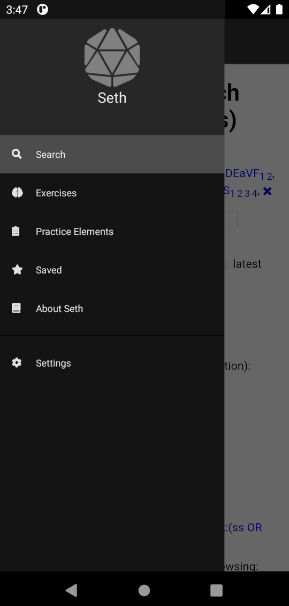
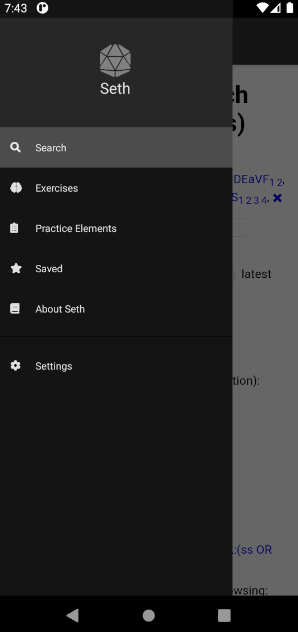
added test data for saved section styled saved section added cardview with material specs

diff --git a/src/app/saved/saved.component.html b/src/app/saved/saved.component.html
@@ -7,12 +7,39 @@
 </ActionBar>
 
 <GridLayout class="page__content">
-    <RadListView [items]="saved">
-        <ng-template let-item="item">
-            <StackLayout class="page__content-quotes">
-                <Label class="quote-text h3" [text]="item.quote"></Label>
-                <Label class="quote-book h4" [text]="item.book"></Label>
-            </StackLayout>
-        </ng-template>
+    <RadListView #savedList [items]="saved">
+        <ListViewLinearLayout tkListViewLayout
+                              scrollDirection="Vertical"
+                              itemInsertAnimation="Default"
+                              itemDeleteAnimation="Default">
+            <ng-template let-item="item">
+                <CardView class="page__content-quotes" [androidElevation]="cardElevation">
+                    <StackLayout>
+                        <Label *ngIf="!item.edit" class="quote-text h3" [text]="item.quote"></Label>
+                        <TextView *ngIf="item.edit" class="quote-text-edit h3" [(ngModel)]="newQuoteText"></TextView>
+
+                        <GridLayout columns="auto, *">
+                            <Label class="quote-book h4" col="0" [text]="item.book"></Label>
+
+                            <Button *ngIf="!item.edit" class="quote-edit text-center fas" col="1"
+                                    text="&#xf044;" [androidElevation]="buttonElevation"
+                                    (tap)="onEditQuote(item.quote); item.edit = !item.edit"></Button>
+
+                            <GridLayout col="1" columns="auto, auto" horizontalAlignment="right">
+                                <Button *ngIf="item.edit" class="quote-delete text-center fas" col="0"
+                                        text="&#xf2ed;" [androidElevation]="buttonElevation"
+                                        (tap)="onDeleteQuote($event); item.edit = !item.edit"></Button>
+
+                                <Button *ngIf="item.edit" class="quote-save text-center fas" col="1"
+                                        text="&#xf00c;" [androidElevation]="buttonElevation"
+                                        (tap)="onSaveQuote($event, newQuoteText); item.edit = !item.edit"></Button>
+
+                            </GridLayout>
+                        </GridLayout>
+
+                    </StackLayout>
+                </CardView>
+            </ng-template>
+        </ListViewLinearLayout>
     </RadListView>
 </GridLayout>

diff --git a/src/app/saved/saved.component.ts b/src/app/saved/saved.component.ts
@@ -1,15 +1,20 @@
-import { Component, OnInit } from '@angular/core';
+import { Component, ElementRef, OnInit, ViewChild } from '@angular/core';
 import { ObservableArray } from 'tns-core-modules/data/observable-array';
 import { DatabaseSaved } from '~/app/shared/databases/database-saved';
 import { Saved } from '~/app/saved/interfaces/saved.interface';
 import { RadSideDrawer } from 'nativescript-ui-sidedrawer';
 import * as app from 'tns-core-modules/application';
+import { Page } from 'tns-core-modules/ui/page';
 
 @Component({
     selector: 'Saved',
     templateUrl: './saved.component.html'
 })
 export class SavedComponent implements OnInit {
+    cardElevation: number;
+    buttonElevation: number;
+    newQuoteText: string;
+    @ViewChild('savedList', {static: false}) savedList: ElementRef;
 
     get saved(): ObservableArray<Saved> {
         return this._saved;
@@ -18,11 +23,32 @@ export class SavedComponent implements OnInit {
     private _saved: ObservableArray<Saved>;
 
     constructor(
+        private _page: Page,
         private _savedQuotes: DatabaseSaved
     ) {
     }
 
     ngOnInit(): void {
+        this.cardElevation = 2;
+        this.buttonElevation = 6;
+        this._savedQuotes.fetchSavedQuotes().then((results) => {
+            this._saved = results;
+        });
+    }
+
+    onEditQuote(oldQuoteText): void {
+        this.newQuoteText = oldQuoteText;
+    }
+
+    onDeleteQuote(args): void {
+        const id = args.object.bindingContext.id;
+        this._savedQuotes.delete({id});
+        this.saved.splice(this.saved.indexOf(args.object.bindingContext), 1);
+    }
+
+    onSaveQuote(args, newQuote): void {
+        const id = args.object.bindingContext.id;
+        this._savedQuotes.update({quote: newQuote, id});
         this._savedQuotes.fetchSavedQuotes().then((results) => {
             this._saved = results;
         });

diff --git a/src/_app-common.scss b/src/_app-common.scss
@@ -41,13 +41,58 @@
   }
 
   &-quotes {
+    radius: 10;
+    margin: 10;
+    background-color: $overlay-02dp;
+
     .quote {
       &-text {
+        white-space: normal;
+        color: rgba(255, 255, 255, .87);
+      }
+
+      &-text-edit {
+        margin: 6;
+        padding: 0;
+        white-space: normal;
         color: rgba(255, 255, 255, .87);
       }
 
       &-book {
         color: rgba(255, 255, 255, .6);
+      }
+
+      &-edit {
+        width: 30;
+        height: 30;
+        font-size: 12;
+        font-weight: 300;
+        border-radius: 50%;
+        horizontal-align: right;
+        color: rgba(255, 255, 255, .6);
+        background-color: $overlay-06dp;
+      }
+
+      &-delete {
+        width: 30;
+        height: 30;
+        font-size: 12;
+        font-weight: 300;
+        border-radius: 50%;
+        horizontal-align: right;
+        color: rgba(255, 93, 93, 0.6);
+        background-color: $overlay-06dp;
+      }
+
+      &-save {
+        width: 30;
+        height: 30;
+        font-size: 12;
+        font-weight: 300;
+        border-radius: 50%;
+        horizontal-align: right;
+        color: rgba(107, 255, 93, 0.6);
+        background-color: $overlay-06dp;
       }
     }
   }
@@ -102,10 +147,11 @@
   color: rgba(255, 255, 255, .87);
 }
 
-.nt-drawer__header-image {
+.nt-drawer__header-icon {
+  margin-top: 20;
   color: gray;
-  height: 40em;
-  width: 40em;
+  height: 40;
+  width: 40;
 }
 
 .nt-drawer__list-item.-selected {

diff --git a/src/app/app.component.ts b/src/app/app.component.ts
@@ -1,4 +1,4 @@
-import { Component, OnInit } from '@angular/core';
+import { AfterViewInit, Component, OnInit } from '@angular/core';
 import { NavigationEnd, Router } from '@angular/router';
 import { DrawerTransitionBase, RadSideDrawer, SlideInOnTopTransition } from 'nativescript-ui-sidedrawer';
 import { DatabaseExercisesPractice } from '~/app/shared/databases/database-exercises-practice';
@@ -12,7 +12,7 @@ import { filter } from 'rxjs/operators';
     selector: 'ns-app',
     templateUrl: 'app.component.html'
 })
-export class AppComponent implements OnInit {
+export class AppComponent implements OnInit, AfterViewInit {
     private _activatedUrl: string;
     private _sideDrawerTransition: DrawerTransitionBase;
 
@@ -28,11 +28,14 @@ export class AppComponent implements OnInit {
     ngOnInit(): void {
         this._activatedUrl = '/search';
         this._sideDrawerTransition = new SlideInOnTopTransition();
-        this._page.backgroundColor = '#121212';
 
         this._router.events
         .pipe(filter((event: any) => event instanceof NavigationEnd))
         .subscribe((event: NavigationEnd) => this._activatedUrl = event.urlAfterRedirects);
+    }
+
+    ngAfterViewInit(): void {
+        this._page.backgroundColor = '#121212';
     }
 
     get sideDrawerTransition(): DrawerTransitionBase {

diff --git a/src/app/shared/databases/database-saved.ts b/src/app/shared/databases/database-saved.ts
@@ -8,10 +8,10 @@ export class DatabaseSaved {
     private isInstantiated: boolean;
 
     constructor() {
-        if (!sqlite.exists('saved.sqlite')) {
+        // if (!sqlite.exists('saved.sqlite')) {
             sqlite.copyDatabase('saved.sqlite');
             console.log('saved was created');
-        }
+        // }
         if (!this.isInstantiated) {
             (new sqlite('saved.sqlite')).then((db) => {
                 db.execSQL('CREATE TABLE IF NOT EXISTS saved (id INTEGER PRIMARY KEY AUTOINCREMENT, quote TEXT, book TEXT)').then((id) => {
@@ -51,13 +51,13 @@ export class DatabaseSaved {
 
     update(data: any): Promise<any> {
         return this.db.
-            execSQL('UPDATE saved SET quote = (?), book = (?) WHERE id = (?)',
-            [data.quote, data.book, data.id]);
+            execSQL('UPDATE saved SET quote = (?) WHERE id = (?)',
+            [data.quote,  data.id]);
     }
 
     fetchSavedQuotes(): Promise<any> {
         return new Promise((resolve, reject) => {
-            this.db.all('SELECT * FROM saved ORDER BY id').then((rows) => {
+            this.db.all('SELECT * FROM saved ORDER BY id DESC').then((rows) => {
                 const quotes = [];
                 for (const row in rows) {
                     quotes.push({

diff --git a/src/app/saved/saved.module.ts b/src/app/saved/saved.module.ts
@@ -1,15 +1,19 @@
 import { NgModule, NO_ERRORS_SCHEMA } from '@angular/core';
 import { NativeScriptCommonModule } from 'nativescript-angular/common';
 import { NativeScriptUIListViewModule } from 'nativescript-ui-listview/angular';
+import { NativeScriptFormsModule } from 'nativescript-angular';
 import { SavedRoutingModule } from './saved-routing.module';
 
 import { SavedComponent } from './saved.component';
+import { CommonModule } from '@angular/common';
 
 @NgModule({
     imports: [
         NativeScriptCommonModule,
         SavedRoutingModule,
-        NativeScriptUIListViewModule
+        NativeScriptUIListViewModule,
+        NativeScriptFormsModule,
+        CommonModule
     ],
     declarations: [
         SavedComponent

diff --git a/src/main.ts b/src/main.ts
@@ -1,8 +1,11 @@
 // this import should be first in order to load some required settings (like globals and reflect-metadata)
 import { platformNativeScriptDynamic } from 'nativescript-angular/platform';
-
 import { AppModule } from './app/app.module';
 import { enableProdMode } from '@angular/core';
+import { registerElement } from 'nativescript-angular/element-registry';
+import { CardView } from '@nstudio/nativescript-cardview';
+
+registerElement('CardView', () => CardView);
 enableProdMode();
 
 platformNativeScriptDynamic().bootstrapModule(AppModule);

diff --git a/src/app/app.component.html b/src/app/app.component.html
@@ -1,7 +1,7 @@
 <RadSideDrawer [drawerTransition]="sideDrawerTransition">
     <GridLayout tkDrawerContent rows="auto, *" class="nt-drawer__content">
         <StackLayout row="0" class="nt-drawer__header">
-            <Image class="nt-drawer__header-image fas" src="font://&#xf6cf;"></Image>
+            <Image class="nt-drawer__header-icon fas" src="font://&#xf6cf;"></Image>
             <Label class="nt-drawer__header-brand" text="Seth"></Label>
 <!--            <Label class="nt-drawer__header-footnote" text="Seth"></Label>-->
         </StackLayout>

diff --git a/src/app/saved/interfaces/saved.interface.ts b/src/app/saved/interfaces/saved.interface.ts
@@ -2,4 +2,5 @@ export interface Saved {
     id: number;
     quote: string;
     book: string;
+    edit?: boolean;
 }
